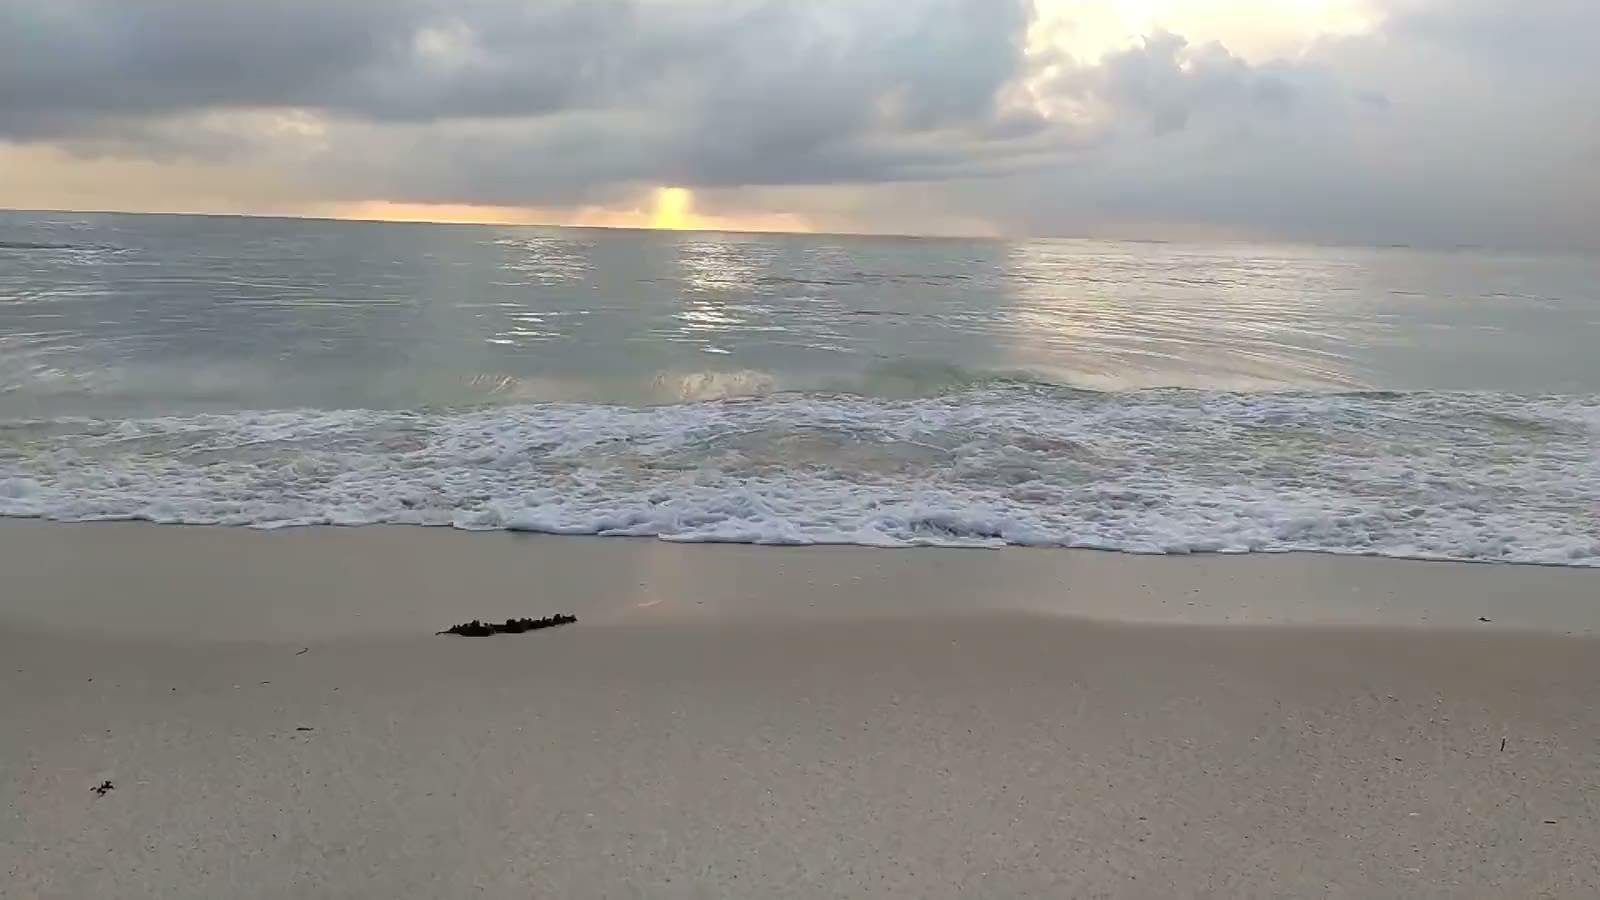
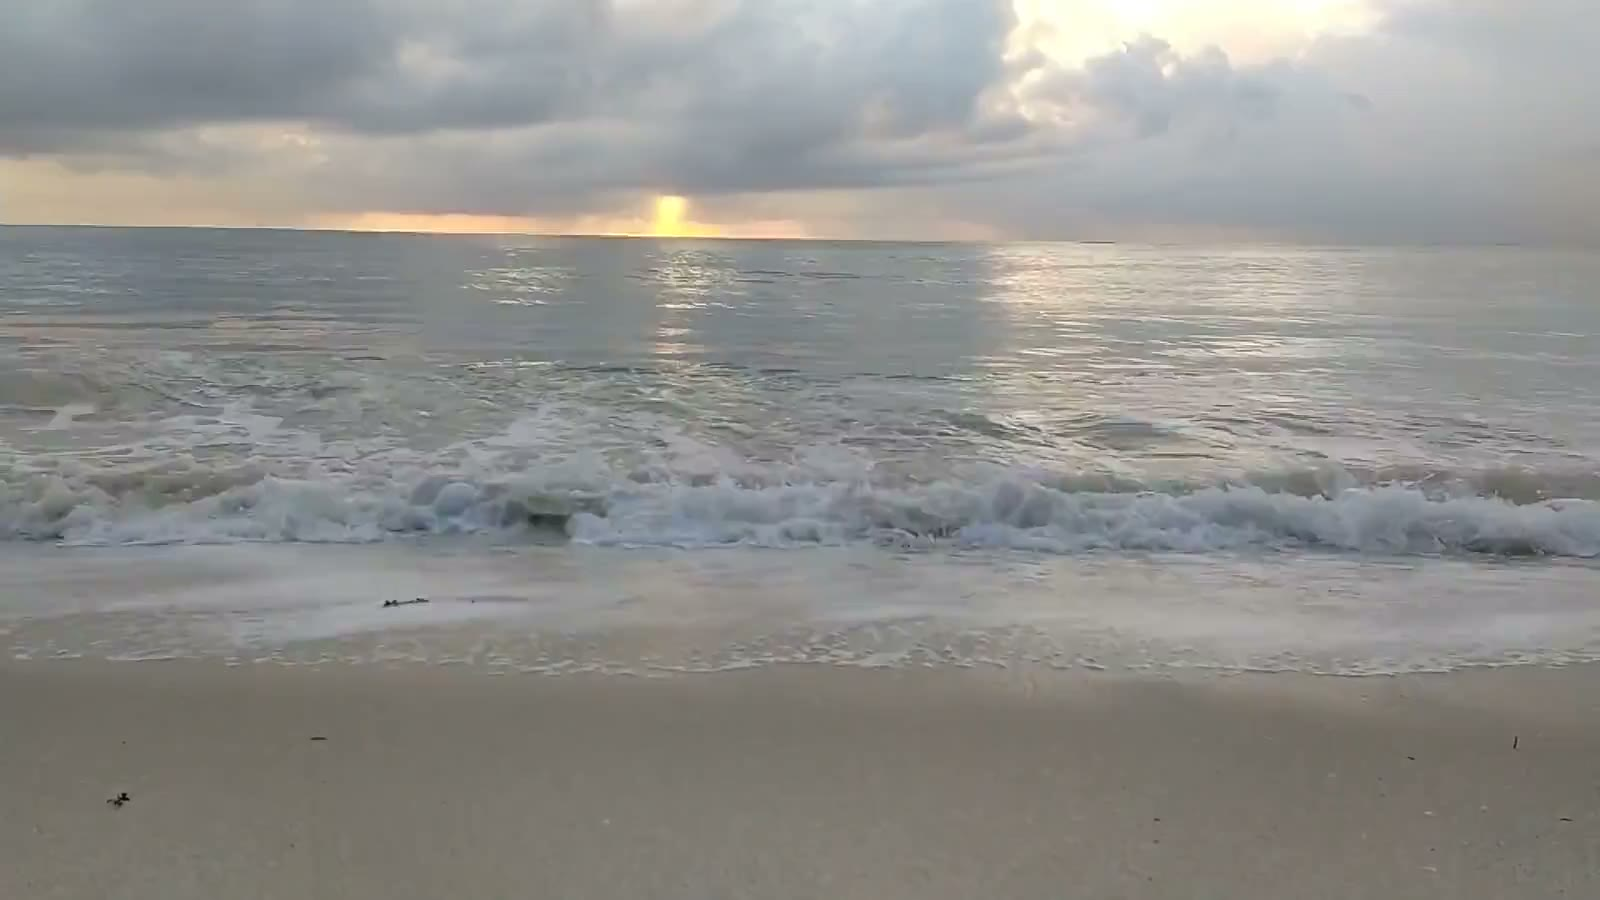
Use full Diani Waves 2 hero video + heavier dark overlay
- Replace the short 5.8s hero loop with the full ~24s static
  golden-hour clip (seamless crossfade loop) for a more interesting,
  less repetitive background
- Strengthen the even dark overlay (abyss/50 -> abyss/65 plus deeper
  grounding gradients) to better mask the phone-video softness
- Regenerate the matching poster from the new first frame

diff --git a/components/Hero.tsx b/components/Hero.tsx
@@ -72,14 +72,14 @@ export default function Hero() {
           Even darkening across the whole frame deepens the footage for a
           premium feel and masks phone-video softness uniformly. Subtle
           grounding gradients keep the text legible. */}
-      {/* Even overall darken — uniform, no vignette */}
-      <div className="absolute inset-0 z-[2] bg-abyss/50 pointer-events-none" />
+      {/* Even overall darken — uniform, stronger to mask phone-video softness */}
+      <div className="absolute inset-0 z-[2] bg-abyss/65 pointer-events-none" />
       {/* Bottom grounding — anchors text, fades into the next section */}
-      <div className="absolute inset-0 z-[2] bg-gradient-to-t from-abyss/70 via-transparent to-transparent pointer-events-none" />
+      <div className="absolute inset-0 z-[2] bg-gradient-to-t from-abyss/85 via-abyss/10 to-transparent pointer-events-none" />
       {/* Left — headline + body legibility */}
-      <div className="absolute inset-0 z-[2] bg-gradient-to-r from-black/30 via-transparent to-transparent pointer-events-none" />
+      <div className="absolute inset-0 z-[2] bg-gradient-to-r from-black/40 via-transparent to-transparent pointer-events-none" />
       {/* Top — nav legibility */}
-      <div className="absolute inset-0 z-[2] bg-gradient-to-b from-black/30 via-transparent to-transparent pointer-events-none" />
+      <div className="absolute inset-0 z-[2] bg-gradient-to-b from-black/40 via-transparent to-transparent pointer-events-none" />
 
 
       {/* Concentric halo rings */}